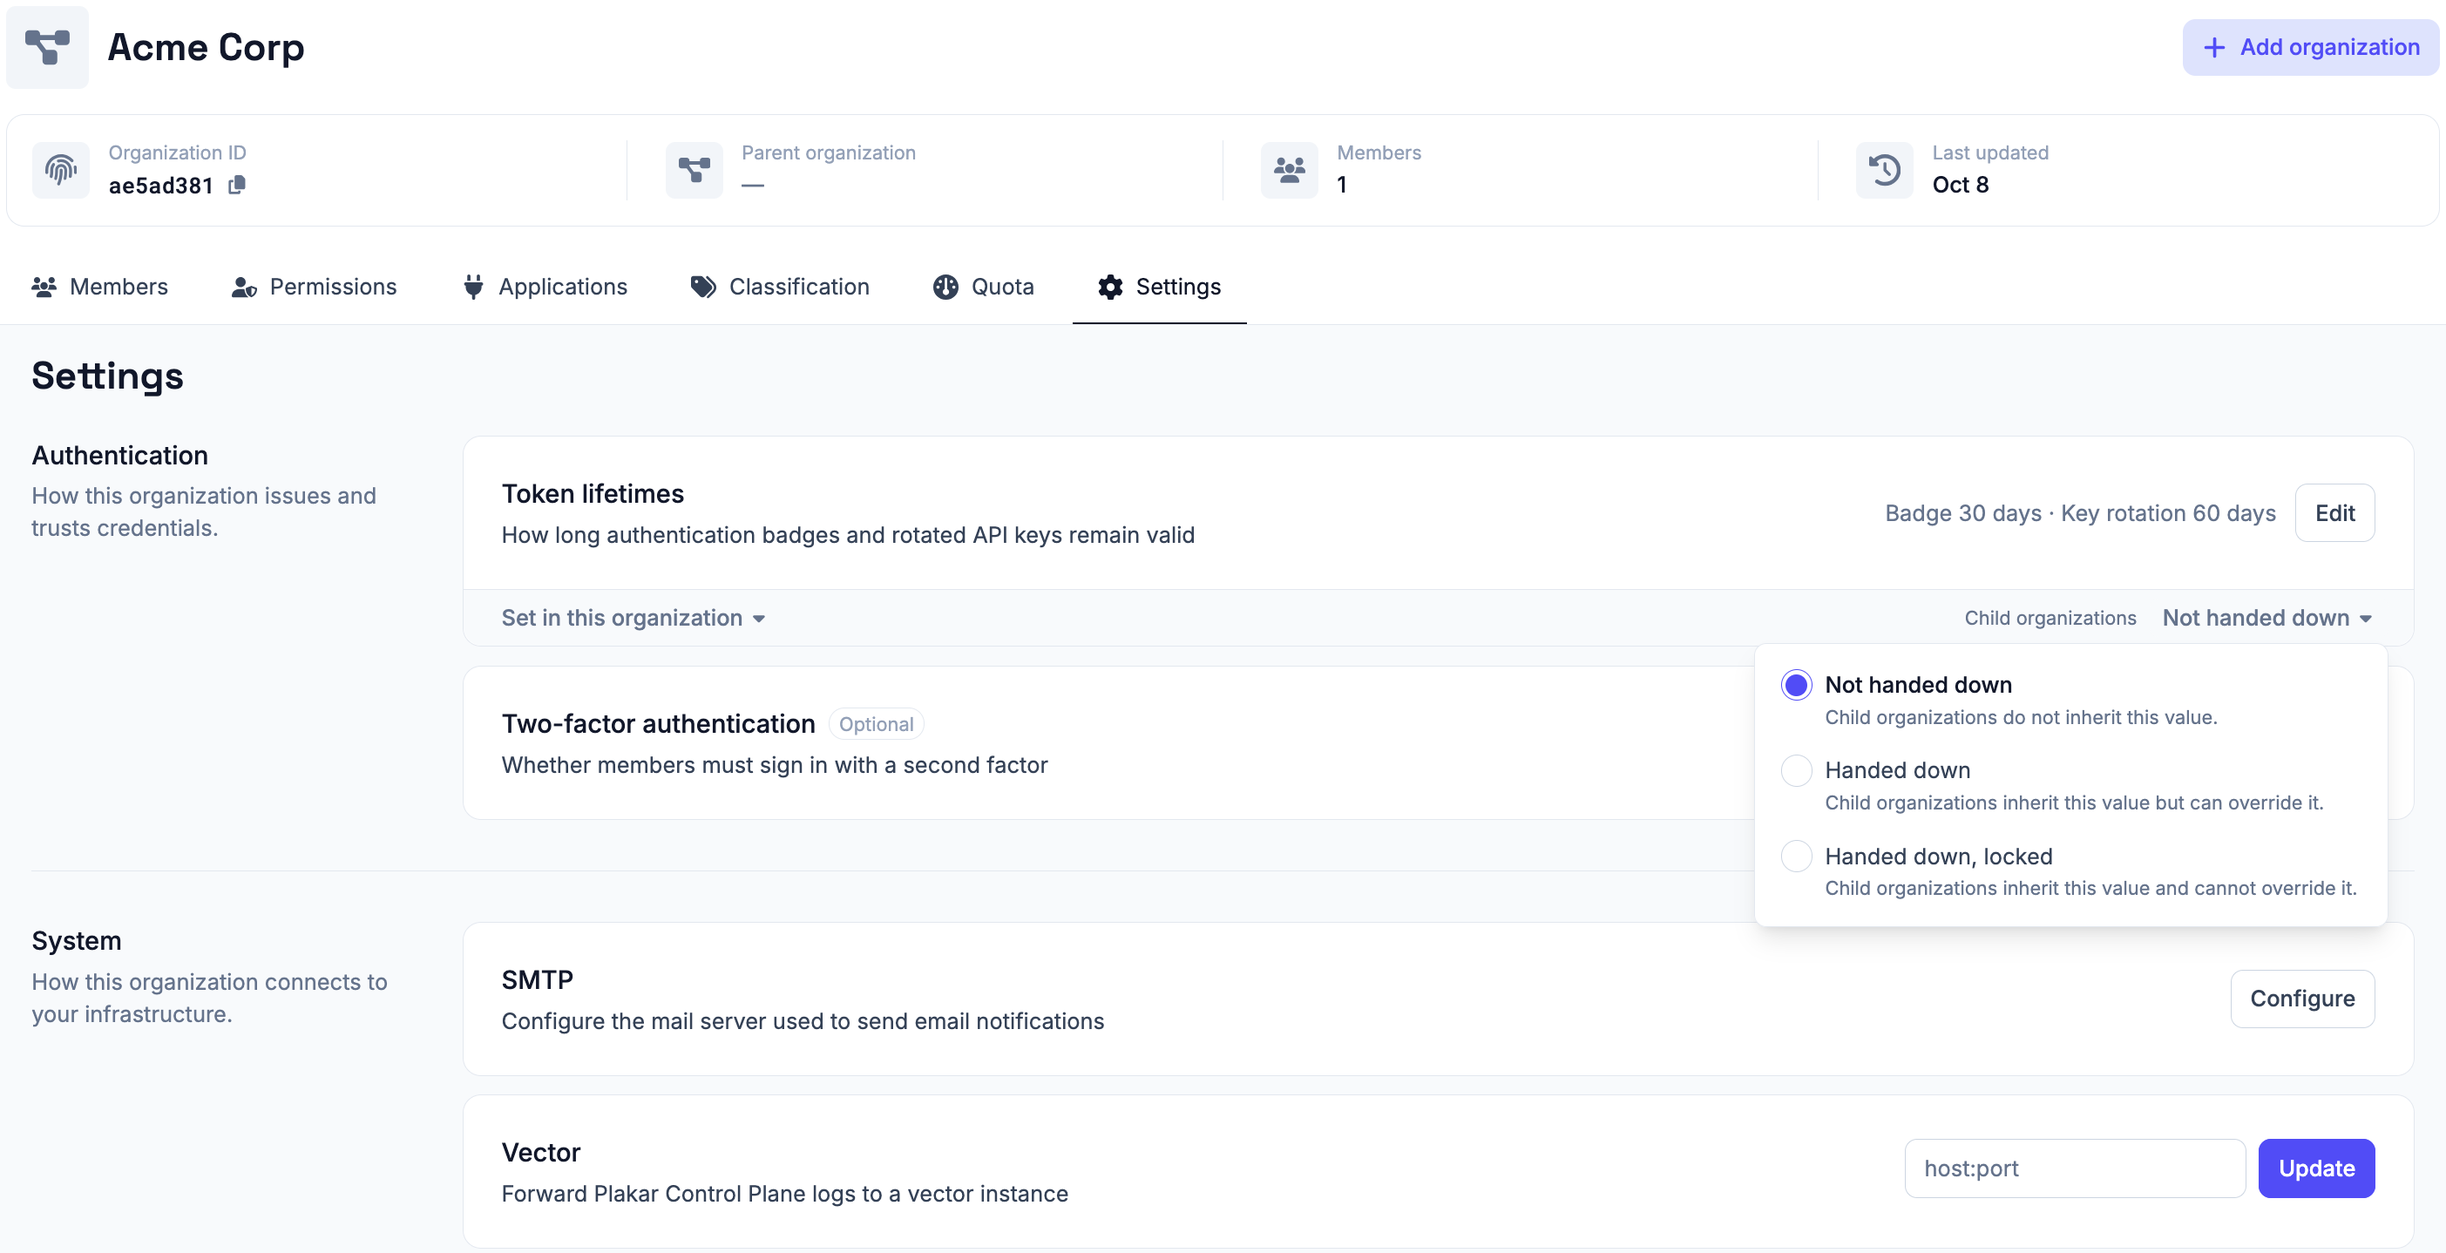
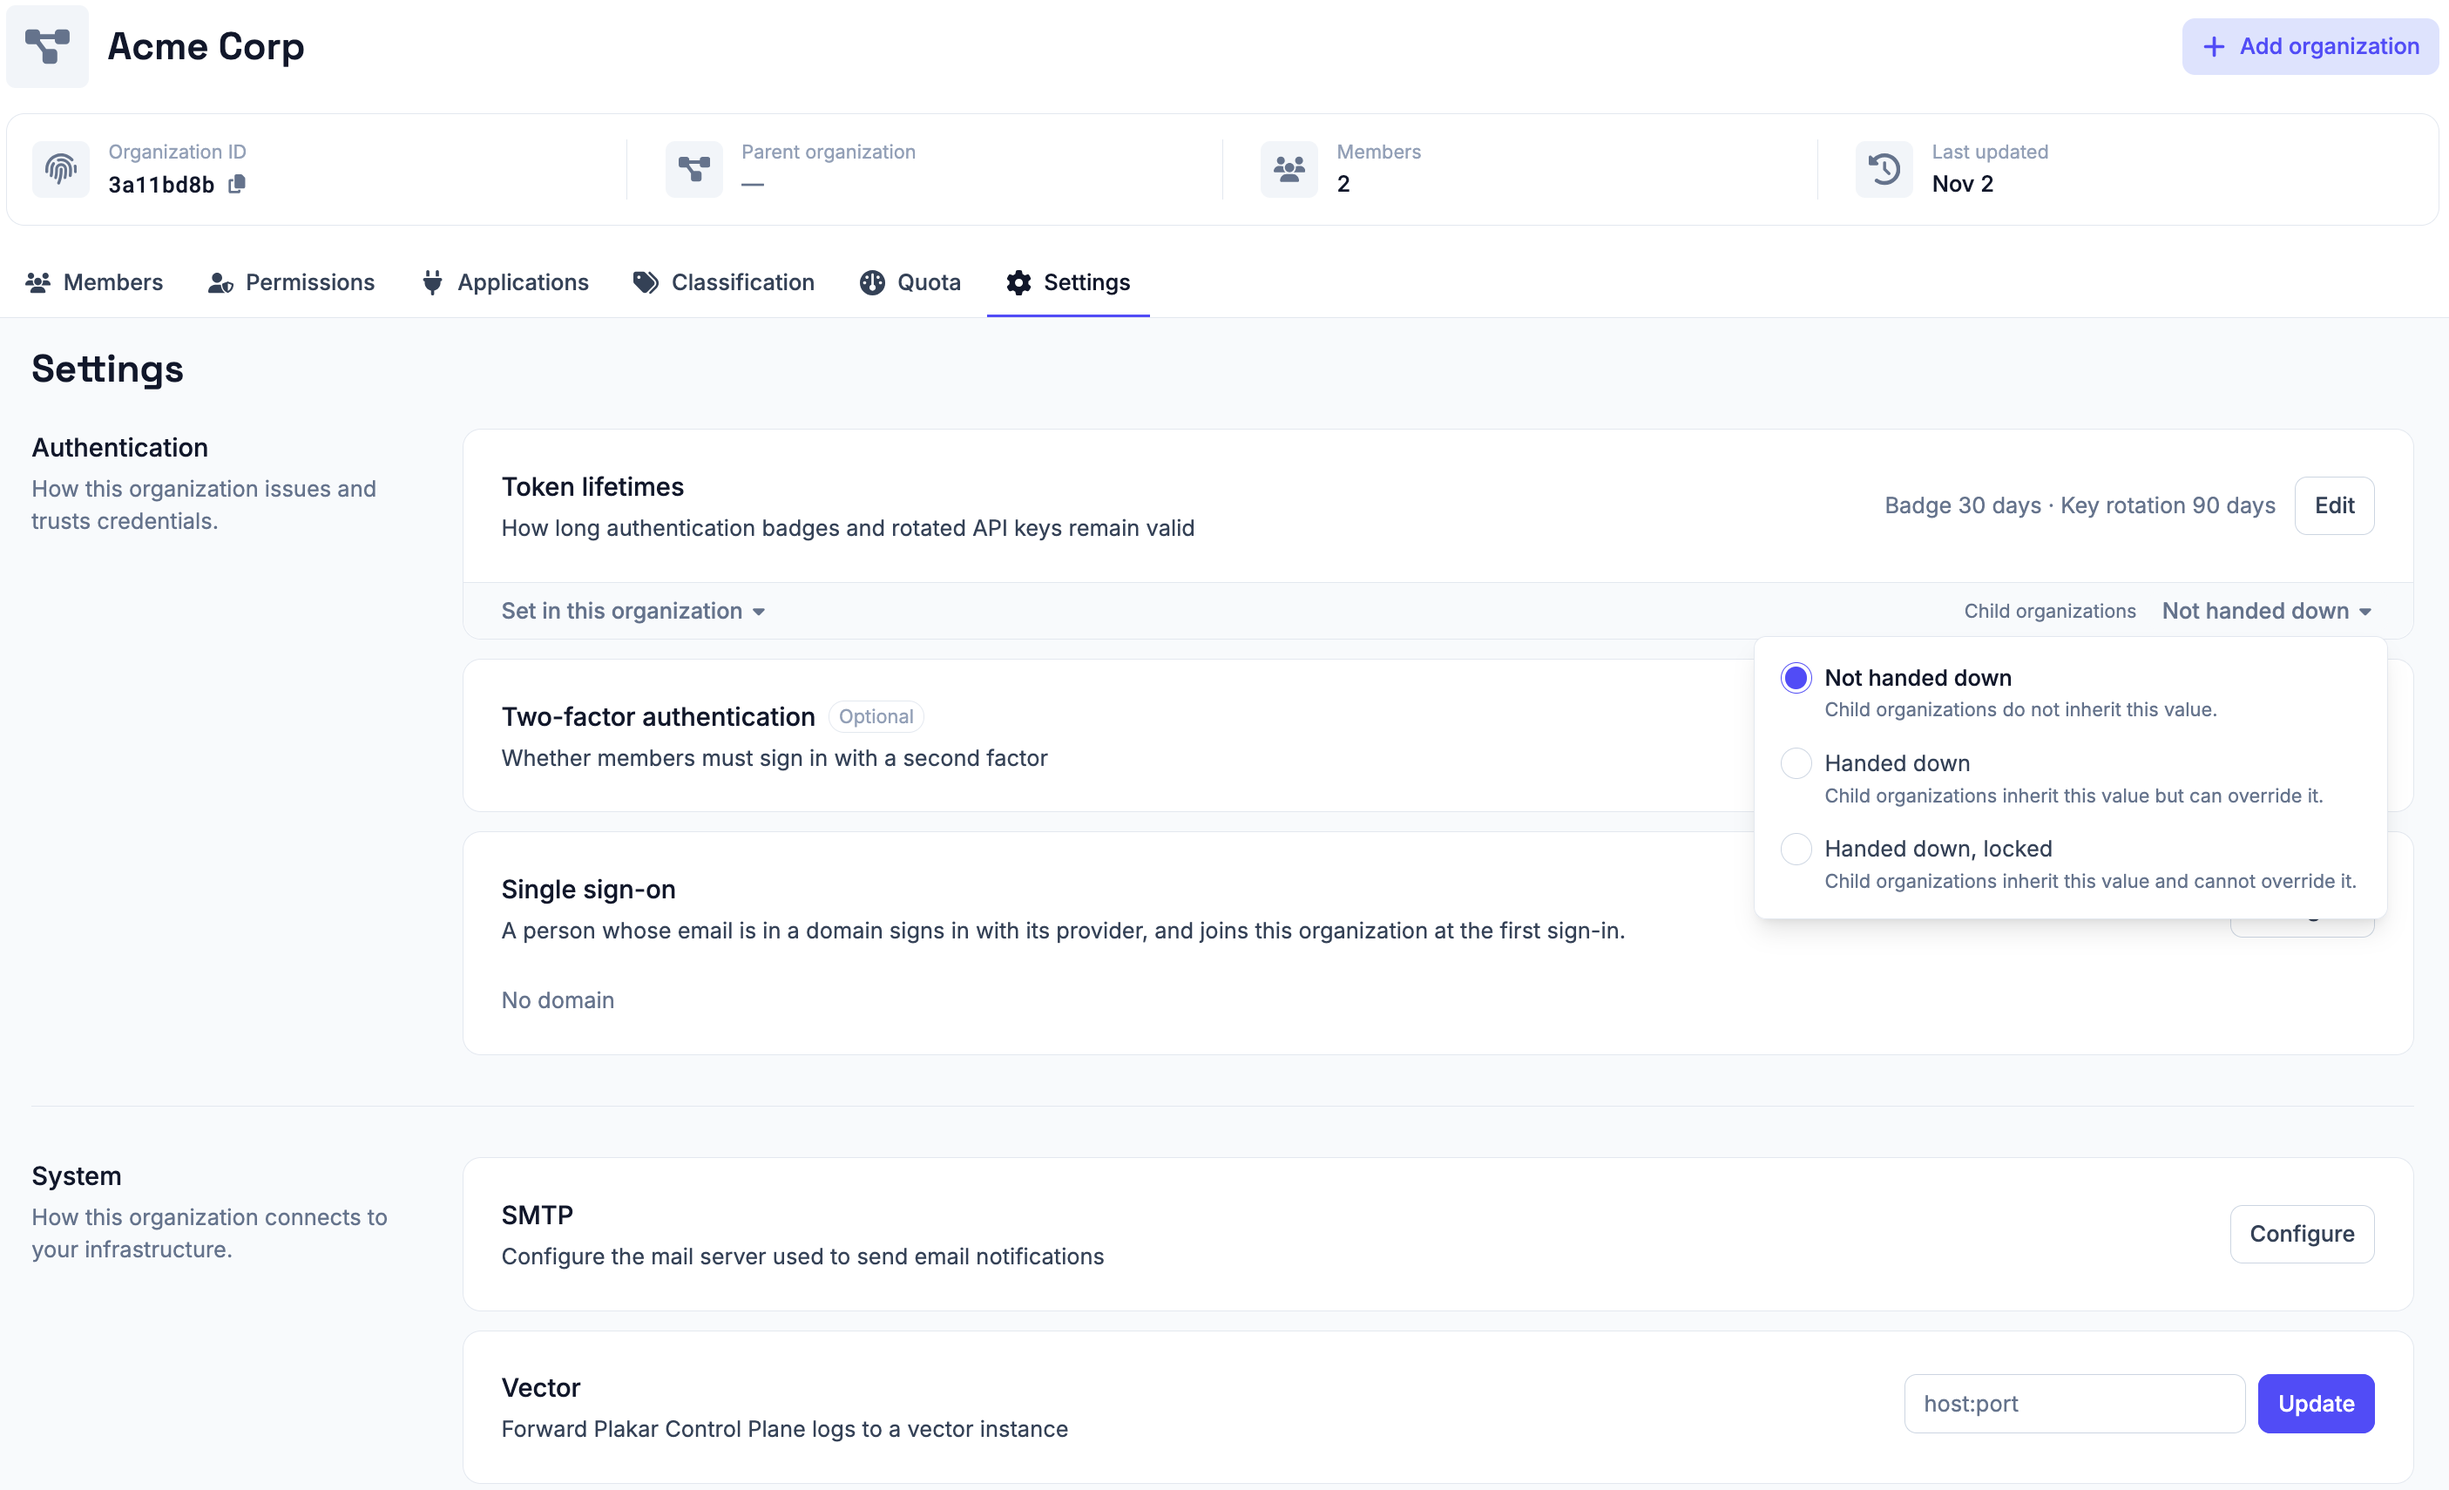
add docs for sigle sign on

diff --git a/content/docs/control-plane/access-control/sso.md b/content/docs/control-plane/access-control/sso.md
@@ -1,0 +1,150 @@
+---
+title: "Single Sign-On"
+date: "2026-11-05T00:00:00Z"
+weight: 5
+summary:
+  "Let members sign in to Plakar Control Plane through an OpenID Connect
+  provider such as Google, Okta, Entra ID, Keycloak or Auth0."
+---
+
+# Single Sign-On
+
+Single sign-on lets people sign in to Plakar Control Plane with an account they
+already hold at an identity provider. Any provider that supports OpenID Connect
+can be used, such as Google, Okta, Entra ID, Keycloak or Auth0.
+
+It is configured at two levels:
+
+- [Control Plane settings](../../operations/control-plane-settings#single-sign-on)
+  hold the providers, which are available to the whole instance.
+- [Organization settings](../organization-settings#single-sign-on) tie email
+  domains to a provider, which decides who signs in with it and which
+  organization they join.
+
+A provider that is added or changed is used from the next sign-in, with no
+restart.
+
+## Who manages single sign-on
+
+A provider decides who can sign in to the instance, so managing single sign-on
+is reserved to the people who maintain the deployment. These are the members of
+the root organization who can change the
+[Control Plane settings](../../operations/control-plane-settings), such as the
+[Superuser](../permissions/superuser) and
+[Platform Admins](../permissions/platform-admin).
+
+The same rule applies to the email domains of every organization. Only the
+Superuser and Platform Admins can assign domains. An organization admin cannot set up the
+domains of their own organization. Other members cannot view or change the
+providers. Those who can view the organization settings see its domains, but
+cannot change them.
+
+## Adding a provider
+
+Plakar Control Plane is registered at the provider as an OpenID Connect client,
+with the redirect URI `https://<instance>/auth/sso/<id>/callback`, where `<id>`
+is the id chosen for the provider. The `client id` and `secret` the provider
+issues are then entered in Plakar Control Plane, along with the issuer URL of
+the provider, such as `https://accounts.google.com`.
+
+{{< figure src="../images/add-sso-provider.png" alt="" class="mx-auto max-w-130" >}}
+
+### Checking the issuer
+
+Plakar Control Plane finds the endpoints of a provider through OpenID Connect
+discovery, from the issuer URL. Discovery can be run against the issuer before
+the provider is saved, and reports why it failed when it does.
+
+## Changing a provider
+
+Every setting except the id can be changed, and the change applies from the next
+sign-in.
+
+The identity of a person who signed in with a provider is tied to its issuer.
+Changing the issuer therefore stops the sign-ins of everyone who already signed
+in with that provider. Change it only to move to a new provider, not to correct
+how the same provider is written.
+
+## Disabling or deleting a provider
+
+Disabling a provider stops the sign-ins with it at once, and it is no longer
+offered at sign-in. It keeps every setting, including the client secret, so it
+can be enabled again later.
+
+Deleting a provider removes it with its secret. Adding it again needs a client
+secret from the provider. A provider cannot be deleted while an organization
+still assigns it email domains. Disable the provider instead, or remove it from
+the single sign-on settings of those organizations first.
+
+## Assigning email domains
+
+A provider is put to use by assigning it email domains in the
+[organization settings](../organization-settings#single-sign-on) of an
+organization, under **Settings > Authentication**. A person whose email address
+is in one of those domains signs in with that provider, and joins the
+organization at the first sign-in. Only the Superuser and Platform Admins can
+assign them, as described in
+[who manages single sign-on](#who-manages-single-sign-on).
+
+An organization can use several providers, each with its own list of domains. A
+domain is matched exactly against the part of the email address after the `@`,
+in lowercase. Assigning `example.com` does not cover `eu.example.com`, which
+must be assigned on its own. Domains are not inherited by sub-organizations.
+
+{{< figure src="../images/sso-email-domain.png" alt="" class="mx-auto max-w-130" >}}
+
+## Signing in
+
+Every enabled provider is offered on the sign-in page, alongside sign-in with an
+account and password. See [Signing In](../../intro/signing-in).
+
+A sign-in is accepted only when the provider vouches that the email address is
+verified. Providers that do not report this are refused. The provider setup
+below notes where a provider needs extra configuration for it.
+
+## Provider setup
+
+Each provider registers Plakar Control Plane as a client, with the redirect URI
+of the provider, and issues a client id and a client secret.
+
+### Google
+
+In the Google Cloud console, create an OAuth client ID of the type **Web
+application**, and add the redirect URI to its authorized redirect URIs. Use
+`https://accounts.google.com` as the issuer.
+
+### Okta
+
+In the Okta admin console, create an OIDC app integration of the type **Web
+Application**, and add the redirect URI as a sign-in redirect URI. The issuer is
+the URL of the Okta organization, such as `https://example.okta.com`.
+
+### Entra ID
+
+In the Microsoft Entra admin center, register an application with a **Web**
+redirect URI, and create a client secret for it. The client id is the
+application id.
+
+Use the issuer of the tenant,
+`https://login.microsoftonline.com/<tenant id>/v2.0`. The `common` endpoint is
+not supported.
+
+Entra ID does not report whether an email address is verified by default. In
+**Token configuration**, add the optional claim `xms_edov` to the ID token.
+Without it, every sign-in with Entra ID is refused.
+
+### Keycloak
+
+In the realm, create an OpenID Connect client with **Client authentication** on.
+The client secret is in its **Credentials** tab. The issuer is the URL of the
+realm, such as `https://keycloak.example.com/realms/example`.
+
+Keycloak reports for each user whether the email address is verified. Users
+whose email is not marked as verified cannot sign in.
+
+### Auth0
+
+In the Auth0 dashboard, create an application of the type **Regular Web
+Application**, and add the redirect URI to its allowed callback URLs. The issuer
+is the domain of the tenant with a trailing slash, such as
+`https://example.auth0.com/`.

diff --git a/content/docs/control-plane/access-control/organization-settings.md b/content/docs/control-plane/access-control/organization-settings.md
@@ -78,6 +78,14 @@ Plane until a factor is enrolled. See
 [two-factor authentication](../two-factor-authentication) for what a member sets
 up and how it is used at sign-in.
 
+### Single sign-on
+
+Tie email domains to a single sign-on provider. A person whose email address is
+in one of the domains signs in with that provider, and joins this organization
+at the first sign-in. Only the Superuser and Platform Admins can change the
+domains, not the admins of the organization. See
+[who manages single sign-on](../sso#who-manages-single-sign-on). See [Single Sign-On](../sso) for how providers are added.
+
 ## System
 
 The system settings connect the organization to the infrastructure around Plakar

diff --git a/content/docs/control-plane/operations/control-plane-settings.md b/content/docs/control-plane/operations/control-plane-settings.md
@@ -69,6 +69,14 @@ than improved performance. For more information about MTU values and jumbo
 frames, see [MTU and Jumbo Frames](../../guides/mtu-and-jumbo-frames)
 documentation.
 
+### Single sign-on
+
+The identity providers that members can sign in with. Any OpenID Connect
+provider can be added, such as Google, Okta, Entra ID, Keycloak or Auth0. This
+section is shown only to the members of the root organization who can change
+these settings. See [Single Sign-On](../../access-control/sso) for how to
+register a provider.
+
 ## Maintenance and diagnostics
 
 Everything needed to troubleshoot a problem on the instance.

diff --git a/content/docs/control-plane/intro/signing-in.md b/content/docs/control-plane/intro/signing-in.md
@@ -47,6 +47,13 @@ as when a member is added to an organization.
 The password is the same in both cases. The prefix selects the organization, not
 a different account.
 
+## Signing in with single sign-on
+
+When [single sign-on](../../access-control/sso) is set up, the sign-in page also
+offers a button for each enabled provider.
+
+{{< figure src="../images/sso-signin.png" alt="" class="mx-auto max-w-100" >}}
+
 ## Switching organizations
 
 Signing in places you on the organization the account selects. The organization
